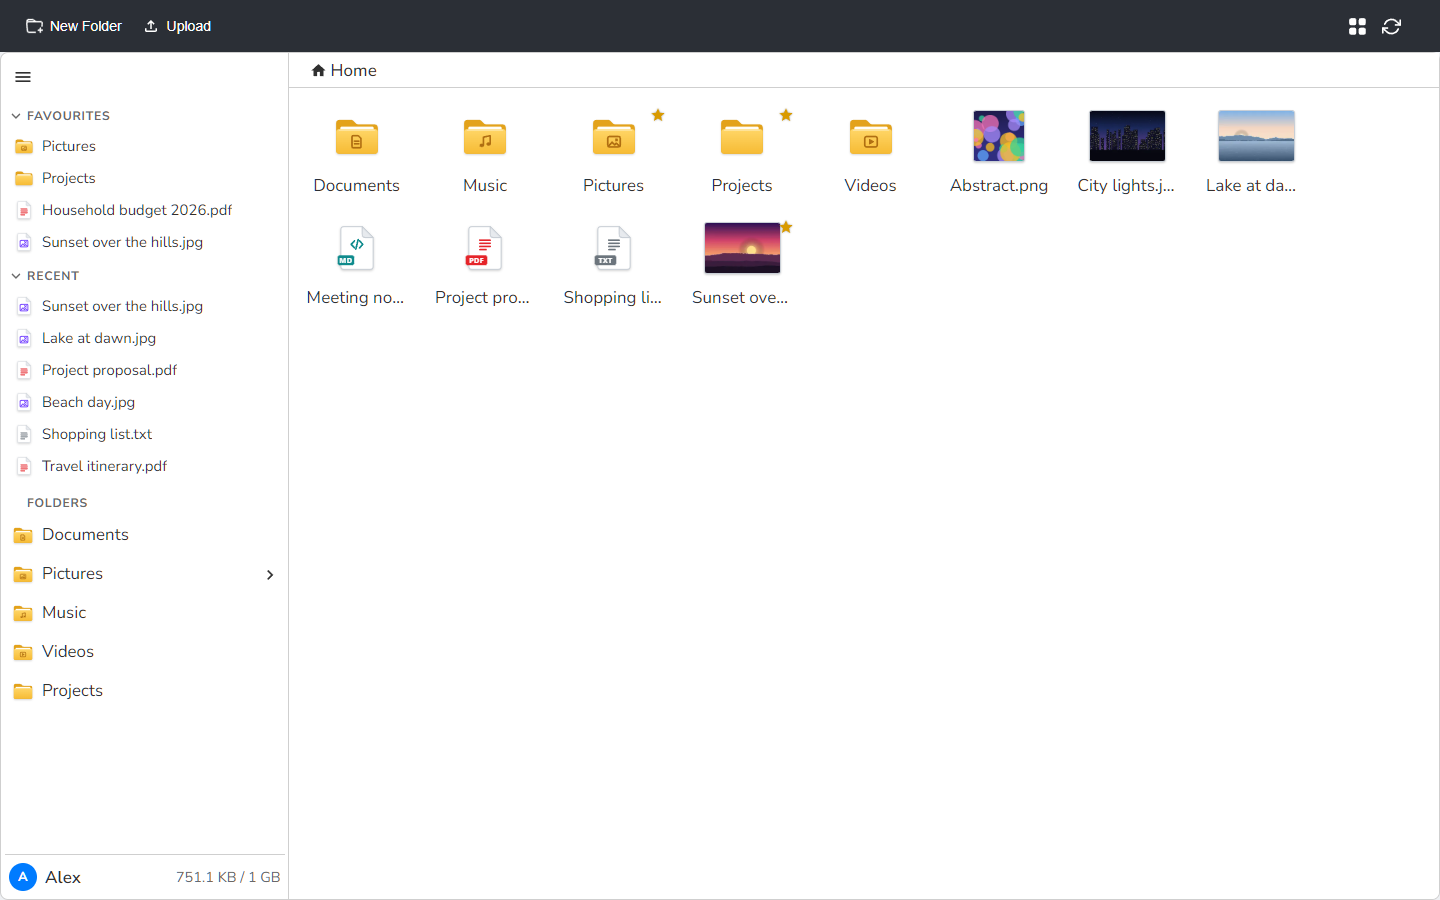
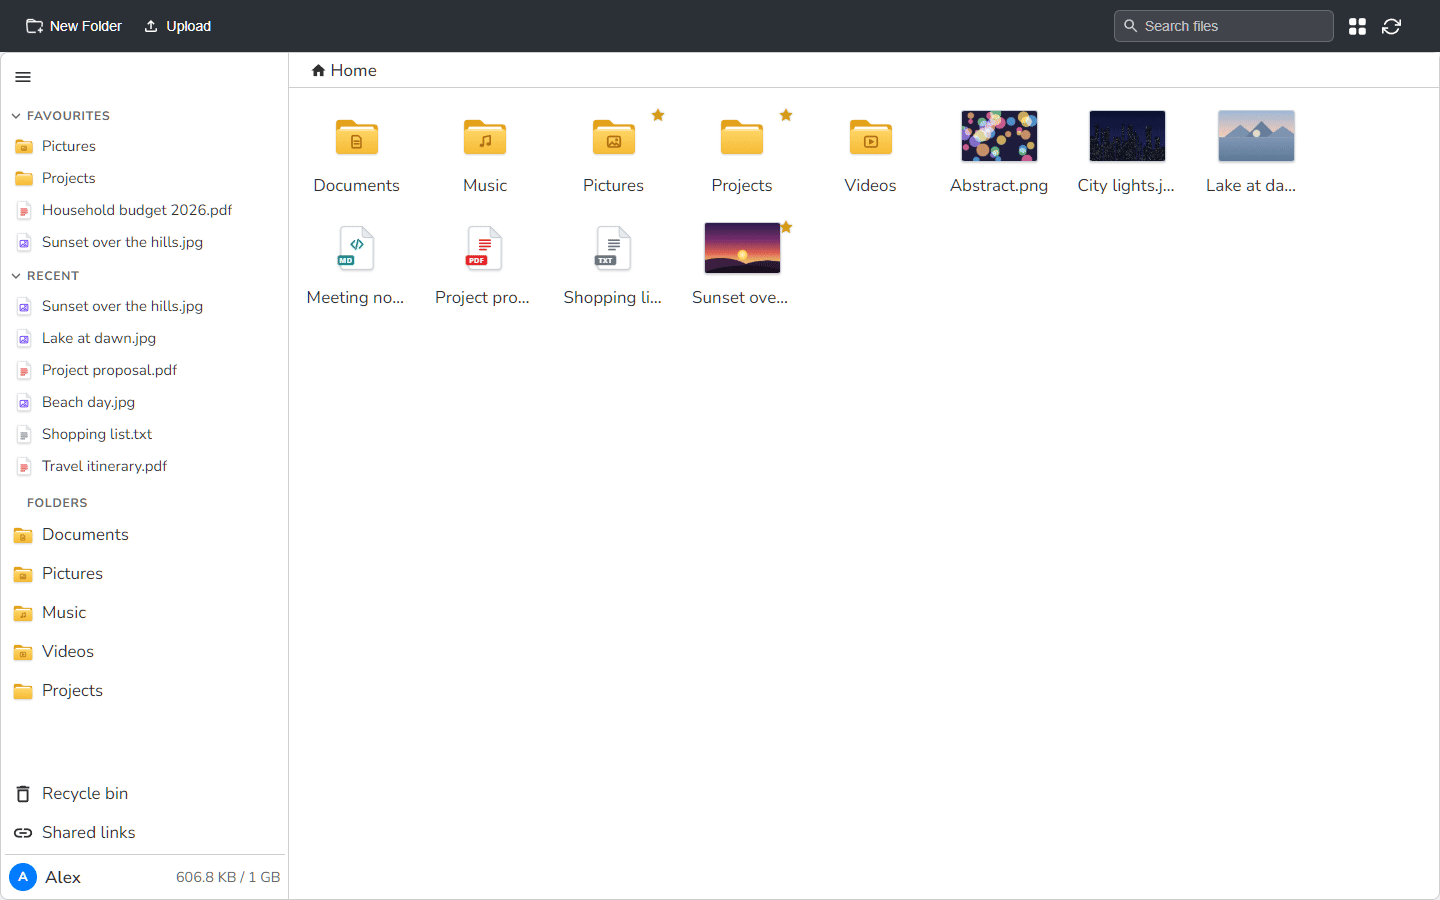
Update the README, roadmap and screenshots for the new features
- README features: sharing, search, recycle bin, big and folder uploads,
  thumbnails, favourites and recent, phone layout, two-factor
  authentication, sessions, email confirmation and password reset,
  security headers and the admin page. The Docker section says how the
  confirmation and reset emails are sent (or logged without SMTP), the
  test commands include npm test, and the API section lists every group.
- Screenshots retaken from a demo account (Alex Morgan, sample pictures,
  PDFs and notes made for the purpose; no real data), and new ones of
  search, the recycle bin, the Shared links page, a public share page,
  the security part of Settings and the admin page. 256-colour PNGs,
  about 600 KB for all fourteen.
- Roadmap: what's done, and ideas for what's next (master key rotation,
  sharing with other accounts, file versions, more previews, an
  activity log, admin tools, releases).
- Frontend README: npm test, the new pages and contexts, and the CSP.

diff --git a/README.md b/README.md
@@ -6,25 +6,39 @@
 
 **Files**
 - Upload, download (single files or zips), rename, move, copy and delete files and folders
-- Desktop-style file and folder icons, grid and list views, sortable columns
+- Big files upload in 8 MB chunks that resume after a dropped connection (up to 2 GB each by default); whole folders can be uploaded too
+- Desktop-style file and folder icons, image thumbnails, grid and list views, sortable columns
 - Details pane with name, type, size, created/modified dates and a preview (images, video, audio, PDF and text)
+- Search every file and folder by name from the top bar
+- Favourites and recently opened files at the top of the folder tree
+- Recycle bin: deleted items can be restored, and are removed for good after 30 days
 - A name that's already taken gets a number, like Windows Explorer: `report (1).pdf`
 - New accounts start with Documents, Pictures, Music and Videos folders
+- Works on phones and tablets: the folder tree becomes a drawer and the details pane a bottom sheet
+
+**Sharing**
+- Share links to a file or folder, with an optional expiry date and password; folders download as a zip
+- A Shared links page to copy links, show their passwords again and revoke them
 
 **Security**
-- Files encrypted at rest with AES-256-GCM, each with its own key
+- Files encrypted at rest with AES-256-GCM, each with its own key; share link secrets and authenticator keys are encrypted too
+- Two-factor authentication with an authenticator app, plus single-use recovery codes
+- See every device you're logged in on, and sign any of them out
+- Email confirmation before the first login, and password reset by email
 - Short-lived access tokens with a rotating, httpOnly refresh-token cookie
 - Password rules, rate limiting and per-user storage quotas
+- Strict Content-Security-Policy and security headers; ready to run behind an HTTPS reverse proxy
 
 **Account and appearance**
 - Log in with email; first and last name, profile picture, password change, account deletion
 - Light, dark and system themes, and a choice of accent colour
+- An admin page for the server owner: every account's storage use and quota, and server totals
 
 **Tooling**
 - Interactive API docs (Swagger) at `/swagger` in development, or with `SWAGGER_ENABLED=true`
 - Desktop app (Electron) for Windows, macOS and Linux
 - Runs with one command using Docker Compose
-- CI on every push: backend build and tests, frontend build and lint, Docker images
+- CI on every push: backend build and integration tests, frontend lint and tests (Vitest), Docker images
 
 ## Screenshots
 
@@ -44,11 +58,29 @@ List view, with sortable columns and a star to add items to Favourites:
 
 ![File manager in list view](docs/screenshots/files-list.png)
 
-Logging in, and the Settings page (storage, theme and accent colour, profile):
+Searching every folder from the top bar, and the recycle bin:
+
+![Search results](docs/screenshots/search.png)
+
+![Recycle bin](docs/screenshots/recycle-bin.png)
+
+Share links: the Shared links page, where a link's password can be shown again, and what someone opening a folder link sees:
+
+![Shared links page](docs/screenshots/shared-links.png)
+
+![Public page for a shared folder](docs/screenshots/share-page.png)
+
+Logging in, and the Settings page (storage, theme and accent colour, profile; two-factor authentication and the devices you're logged in on):
 
 ![Login page](docs/screenshots/login.png)
 
 ![Settings page](docs/screenshots/settings.png)
+
+![Two-factor authentication and active sessions in Settings](docs/screenshots/settings-security.png)
+
+The admin page, for the server owner:
+
+![Admin page](docs/screenshots/admin.png)
 
 On a phone, the folder tree opens as a drawer and the less-used toolbar actions move into a menu:
 
@@ -84,6 +116,8 @@ Then open http://localhost:5173 (the API is on http://localhost:3000). Compose s
 Data lives in two named volumes, `filevault_sql_data` and `filevault_file_storage` (the encrypted files). Back both up together with `ENCRYPTION_MASTER_KEY`. `docker compose down` keeps them; `docker compose down -v` deletes them.
 
 To open the database in a GUI tool (SSMS, Azure Data Studio, VS Code SQLTools), copy `docker-compose.override.example.yml` to `docker-compose.override.yml` and restart with `docker compose up -d`. SQL Server is then reachable from this machine only at `127.0.0.1,1434`, user `sa`, with `MSSQL_SA_PASSWORD` from `.env`. Use `127.0.0.1` rather than `localhost`, which some tools resolve to IPv6 and then time out. To look at the stored files, run `docker compose exec api ls -l /data/storage`. They are encrypted, so download them through the app to read them.
+
+New accounts confirm their email address before they can log in, and "Forgot password?" sends a reset link. To send those emails, set the `SMTP_*` settings in `.env`. Without them the API writes each email, link included, to its log instead, so on a local setup you can find the link with `docker compose logs api`.
 
 To use the admin page (`/admin`: every account's storage use and quota, and server totals), set `ADMIN_EMAILS` in `.env` to a comma-separated list of account emails and restart; those accounts get an Admin link in the account menu.
 
@@ -145,7 +179,9 @@ npm run dev
 
 ```bash
 dotnet test                     # backend integration tests (needs the SQL Server from step 1)
-cd Frontend && npm run lint     # frontend lint
+cd Frontend
+npm run lint                    # frontend lint
+npm test                        # frontend tests (Vitest and Testing Library)
 ```
 
 The integration tests create their own throwaway accounts and delete them afterwards. If tests fail with server errors after pulling new code, re-run `docker compose up -d` in `Backend/Docker` to apply any new database changes.
@@ -174,8 +210,14 @@ Interactive API docs are served at `/swagger` on the API, and the OpenAPI docume
 
 To try protected endpoints, call `POST /user/login`, then click **Authorize** and paste the returned access token (it lasts 15 minutes). Endpoints are grouped as:
 
-- **Account**: register, login, refresh, logout, profile, password, avatar, storage usage, delete account
-- **Files**: upload, folders, list, download (single file or zip), rename, move, copy, delete
+- **Account**: register, login, refresh, logout, profile, password, avatar, email confirmation, password reset, storage usage, delete account
+- **Two-factor authentication**: set up, turn on and off, log in with a code, new recovery codes
+- **Sessions**: list the devices you're logged in on, sign one or all others out
+- **Files**: upload, folders, list, download (single file or zip), rename, move, copy, delete, thumbnails, favourites, recently opened
+- **Uploads**: chunked, resumable uploads for big files
+- **Recycle bin**: list, restore, delete for good, empty
+- **Shares**: create, list and revoke share links, and the public endpoints a link uses
+- **Admin**: every account's usage and quota, change quotas, server totals
 - **Health**: `/ping` and `/pingsql`
 
 ## Project layout
@@ -184,9 +226,9 @@ To try protected endpoints, call `POST /user/login`, then click **Authorize** an
 |---|---|
 | `Backend/` | .NET 8 API: routes, services, models, `Docker/` (dev SQL Server and `init.sql`) |
 | `Backend.Test/` | xUnit integration tests |
-| `Frontend/` | React app; the file manager UI is in `src/FileManager` ([credits](Frontend/src/FileManager/README.md)) |
+| `Frontend/` | React app and its Vitest tests; the file manager UI is in `src/FileManager` ([credits](Frontend/src/FileManager/README.md)) |
 | `Desktop/` | Electron desktop app |
-| `docs/` | [Roadmap](docs/ROADMAP.md) and the original [codebase review](docs/CODEBASE_REVIEW.md) |
+| `docs/` | [Deployment guide](docs/DEPLOYMENT.md), [roadmap](docs/ROADMAP.md), screenshots and the original [codebase review](docs/CODEBASE_REVIEW.md) |
 
 ## Roadmap
 

diff --git a/docs/ROADMAP.md b/docs/ROADMAP.md
@@ -1,33 +1,26 @@
 # Roadmap
 
-What's planned next, roughly in priority order. Everything from the original
-[codebase review](CODEBASE_REVIEW.md) phases 1–3 is done; this list picks up from there.
+## Done
 
-## 1. Core features
+Everything from the original [codebase review](CODEBASE_REVIEW.md) phases 1–3, and the three
+groups of features that followed:
+
+| Area | Features |
+|---|---|
+| **Core** | Share links (expiry, password, a Shared links page), search, recycle bin, email confirmation and password reset, chunked resumable uploads and folder uploads, every file type allowed (2 GB per file by default) |
+| **Security** | Two-factor authentication with recovery codes, active sessions, Swagger off in production, Content-Security-Policy and security headers, a [deployment guide](DEPLOYMENT.md) for hosting behind HTTPS |
+| **Polish** | Image thumbnails, favourites and recently opened files, phone and tablet layout, frontend tests in CI, README screenshots, an admin page for quotas and storage |
+
+## Next
+
+Ideas for what could come next, roughly in priority order. None of them has been started.
 
 | Feature | What it involves |
 |---|---|
-| **Share links** | Create a link to a file or folder, optionally with an expiry date and password; a public page to view/download it; list and revoke your links. New `Shares` table and endpoints, served without login but rate-limited |
-| **Search** | Find files and folders by name across every folder, from a search box in the top bar. The full file list is already loaded, so this can start client-side |
-| **Recycle bin** | Deleting moves items to a bin instead of removing them; restore or empty it; items are purged automatically after 30 days. Deleted items keep counting towards the quota until purged |
-| **Forgot password / email verification** | Reset links sent by email, and confirming the address on sign-up. Needs SMTP settings and a token table |
-| **Bigger uploads** | Chunked, resumable uploads so files above the 100 MB limit work and a dropped connection doesn't restart the upload; uploading whole folders by drag-and-drop |
-
-## 2. Security
-
-| Feature | What it involves |
-|---|---|
-| **Two-factor authentication** | TOTP codes (authenticator apps) with recovery codes, set up from Settings |
-| **Active sessions** | List the devices you're logged in on (each has its own refresh token already) and sign any of them out |
-| **Production hardening** | Swagger only in Development (or behind a setting), security headers (CSP, HSTS) in nginx, and a guide for hosting behind HTTPS |
-
-## 3. Polish
-
-| Feature | What it involves |
-|---|---|
-| **Image thumbnails** | Small previews instead of icons in grid view, generated on upload and cached |
-| **Favourites and recent files** | Star items and see recently opened ones in the folder tree |
-| **Mobile layout** | Usable on phones: collapsible panes, larger touch targets |
-| **Frontend tests** | Vitest and Testing Library for the file manager, run in CI |
-| **README screenshots** | Screenshots or a short demo GIF of the main screens |
-| **Admin page** | For the server owner: list users, change quotas, see total storage |
+| **Master key rotation** | A command that re-encrypts every file's key, and the stored share link and authenticator secrets, under a new `ENCRYPTION_MASTER_KEY`. Files themselves don't need re-encrypting, since only their keys are wrapped with the master key. Mainly for when the key may have leaked |
+| **Sharing with other accounts** | Share a folder with another FileVault user, read-only or with edit rights, instead of only by public link |
+| **File versions** | Keep earlier versions when a file is uploaded again under the same name, and restore one |
+| **More previews and thumbnails** | Thumbnails for videos and PDFs; rendered Markdown in the details pane |
+| **Activity log** | When someone downloaded a shared link, logged in from a new device or changed security settings, shown in Settings |
+| **Admin tools** | Disable or delete accounts, and see storage use over time |
+| **Releases** | Versioned Docker images on GitHub Container Registry and desktop app installers on GitHub Releases, built by CI from a tag |

diff --git a/Frontend/README.md b/Frontend/README.md
@@ -18,18 +18,21 @@ npm run dev             # http://localhost:5173
 | `npm run build` | Production build into `dist/` (the Docker image serves this with nginx) |
 | `npm run preview` | Serve the production build locally |
 | `npm run lint` | ESLint (CI fails on errors) |
+| `npm test` | Vitest and Testing Library tests, run once (CI runs these too); `npm run test:watch` reruns on changes |
 
-`VITE_API_BASE_URL` is compiled into the bundle, so rebuild after changing it.
+`VITE_API_BASE_URL` is compiled into the bundle, so rebuild after changing it. In Docker, nginx serves the
+build with a Content-Security-Policy that allows the API's origin, worked out from the same URL
+(`nginx/default.conf.template`).
 
 ## Where things are
 
 | Path | Contents |
 |---|---|
-| `src/pages/` | Login, Register, Dashboard (the file manager), Settings, and the Layout with the top bar |
+| `src/pages/` | Login (with the two-factor step), Register, password reset and email confirmation, Dashboard (the file manager), Settings, Shared links, the public share page, Admin, and the Layout with the top bar |
 | `src/FileManager/` | File manager UI: toolbar, folder tree, file list, details pane, dialogs. Adapted from @cubone/react-file-manager; see [its README](src/FileManager/README.md) |
 | `src/api/`, `src/services/` | API calls, all through the shared axios client |
 | `src/components/` | Shared pieces: avatar, account menu, file-type icons, buttons, modal |
-| `src/contexts/` | File manager state (files, navigation, selection, clipboard, layout, details pane) |
+| `src/contexts/` | File manager state (files, navigation, selection, clipboard, layout, details pane, search, recycle bin) |
 | `src/hooks/` | Shared hooks, e.g. `useUserProfile` (one cached load of the user's name and picture) |
 | `src/utils/` | Theme and accent colour, password rules, formatting helpers |
 | `src/styles/theme.css` | Colour variables for light and dark themes |
